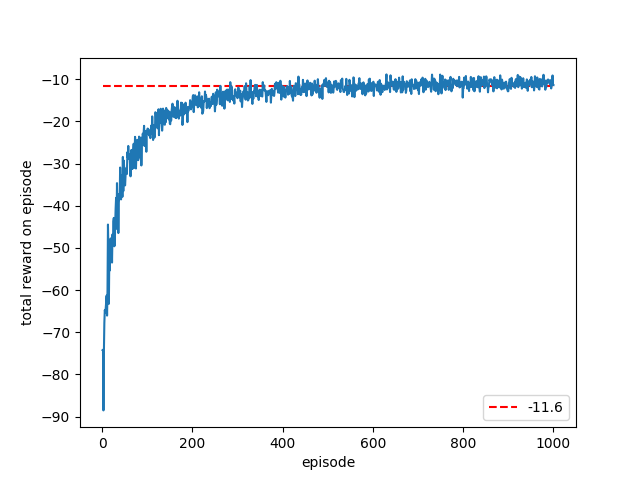
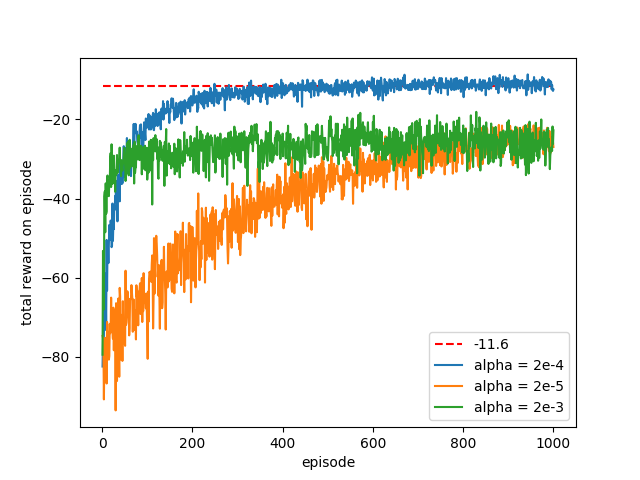
Add curves to figure_13_1

diff --git a/chapter13/short_corridor.py b/chapter13/short_corridor.py
@@ -215,18 +215,24 @@ def example_13_1():
 def figure_13_1():
     num_trials = 100
     num_episodes = 1000
-    alpha = 2e-4
     gamma = 1
+    agent_generators = [lambda : ReinforceAgent(alpha=2e-4, gamma=gamma),
+                        lambda : ReinforceAgent(alpha=2e-5, gamma=gamma),
+                        lambda : ReinforceAgent(alpha=2e-3, gamma=gamma)]
+    labels = ['alpha = 2e-4',
+              'alpha = 2e-5',
+              'alpha = 2e-3']
 
-    rewards = np.zeros((num_trials, num_episodes))
-    agent_generator = lambda : ReinforceAgent(alpha=alpha, gamma=gamma)
+    rewards = np.zeros((len(agent_generators), num_trials, num_episodes))
 
-    for i in tqdm(range(num_trials)):
-        reward = trial(num_episodes, agent_generator)
-        rewards[i, :] = reward
+    for agent_index, agent_generator in enumerate(agent_generators):
+        for i in tqdm(range(num_trials)):
+            reward = trial(num_episodes, agent_generator)
+            rewards[agent_index, i, :] = reward
 
     plt.plot(np.arange(num_episodes) + 1, -11.6 * np.ones(num_episodes), ls='dashed', color='red', label='-11.6')
-    plt.plot(np.arange(num_episodes) + 1, rewards.mean(axis=0))
+    for i, label in enumerate(labels):
+        plt.plot(np.arange(num_episodes) + 1, rewards[i].mean(axis=0), label=label)
     plt.ylabel('total reward on episode')
     plt.xlabel('episode')
     plt.legend(loc='lower right')
